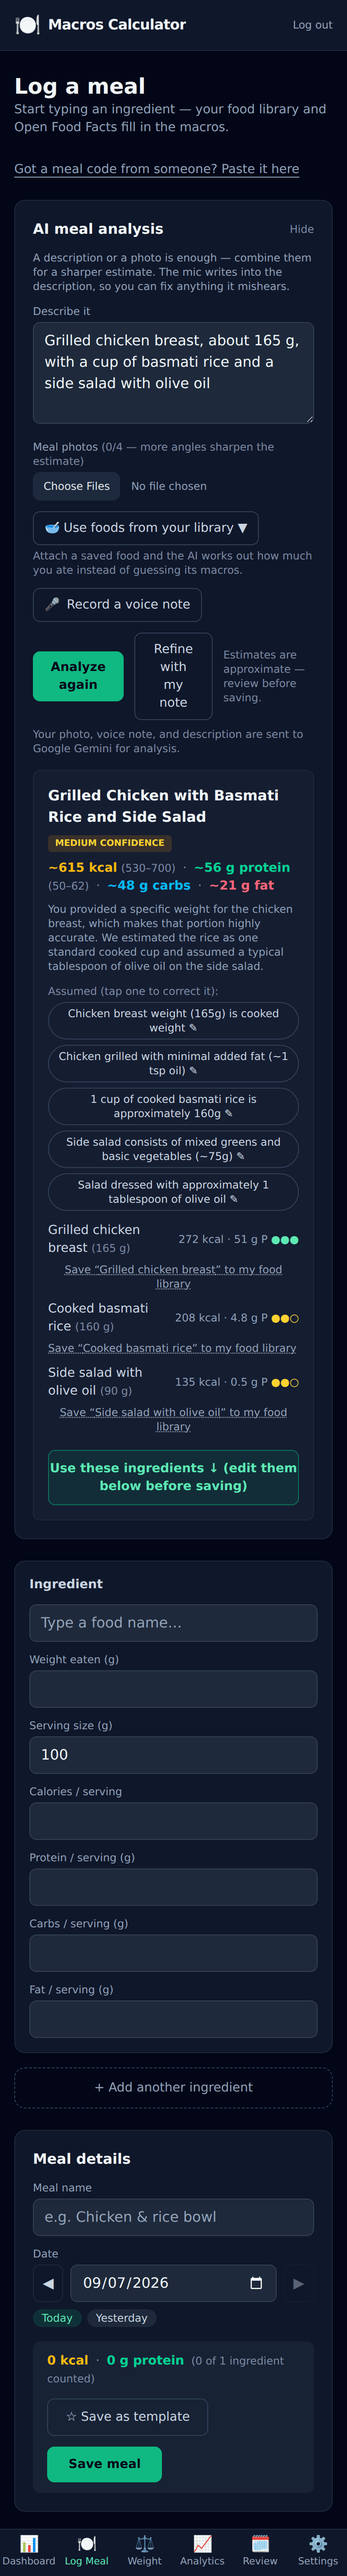
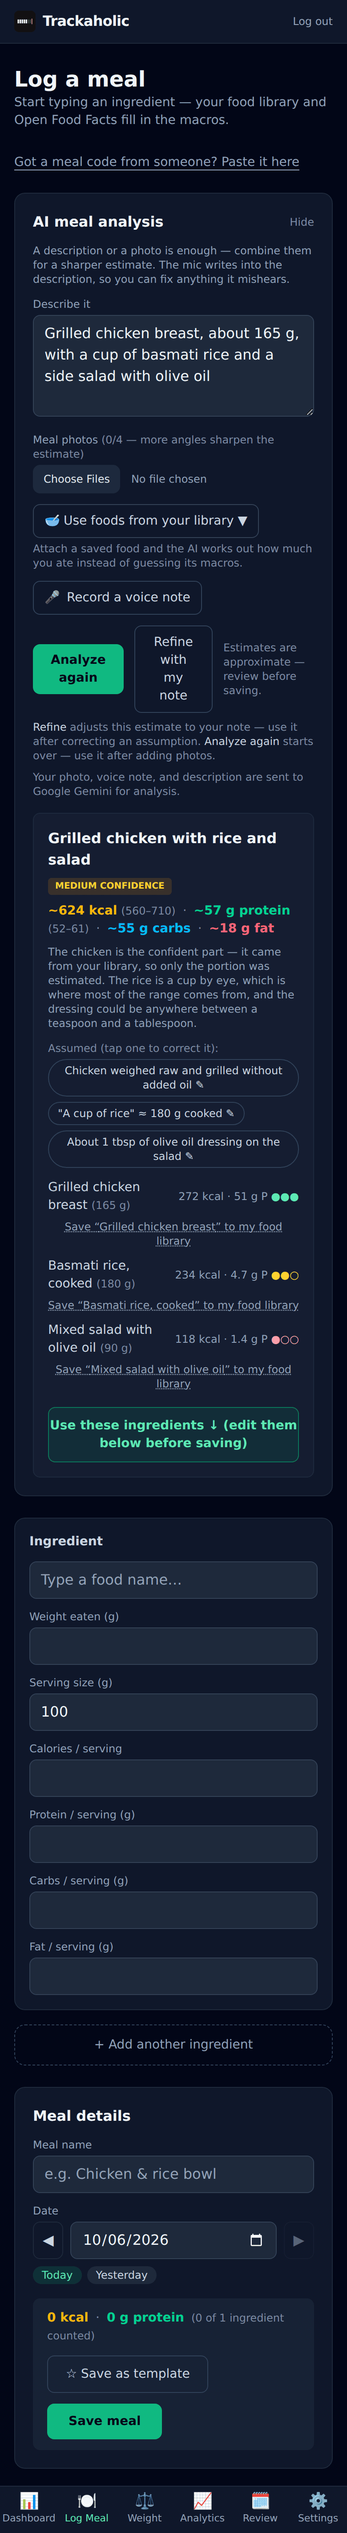
feat: rename the backend and docs to Trackaholic, and announce it
The backend half of the rename. The API's title, the password-reset
email (sender name, subject, both bodies) and the sender name's
documented default in render.yaml and .env.example now say Trackaholic,
matching the frontend's "it arrives from Trackaholic" note. render.yaml
is not applied to the live service, so the dashboard value is changed
by hand where one is set; the in-code default covers the rest.

A new release note tells existing users: same app, same account, same
address, a new name and icon, and what to do if the home-screen icon
does not update by itself. The 2026-07-09 note that says "Macros
Calculator is now multi-user" is left as written: it is history users
have already read.

The README is retitled, with a line saying what it used to be called,
and every screenshot is retaken so the front door shows the new name.
The two AI captures use the script's stand-in analysis rather than a
real model call, to keep the day's provider quota for users.

diff --git a/backend/app/services/email.py b/backend/app/services/email.py
@@ -31,7 +31,7 @@ SENDER_EMAIL_ENV = "EMAIL_SENDER_ADDRESS"
 SENDER_NAME_ENV = "EMAIL_SENDER_NAME"
 # What the recipient sees as the display name. The address beside it is likely
 # to be rewritten (see the module docstring), so this name is doing real work.
-DEFAULT_SENDER_NAME = "Macros Calculator"
+DEFAULT_SENDER_NAME = "Trackaholic"
 
 BREVO_API_URL = "https://api.brevo.com/v3/smtp/email"
 
@@ -163,7 +163,7 @@ def _password_reset_body(reset_url: str, ttl_minutes: int) -> tuple[str, str]:
     caller's value so the copy cannot drift from the token's real expiry.
     """
     text = (
-        f"Macros Calculator — password reset\n\n"
+        f"Trackaholic — password reset\n\n"
         f"Someone asked to reset the password for this email address. Open the "
         f"link below to choose a new one:\n\n"
         f"{reset_url}\n\n"
@@ -174,7 +174,7 @@ def _password_reset_body(reset_url: str, ttl_minutes: int) -> tuple[str, str]:
     safe_url = escape(reset_url, quote=True)
     html = (
         f'<div style="font-family:system-ui,sans-serif;line-height:1.5">'
-        f"<h2>Macros Calculator — password reset</h2>"
+        f"<h2>Trackaholic — password reset</h2>"
         f"<p>Someone asked to reset the password for this email address. "
         f"Choose a new one here:</p>"
         f'<p><a href="{safe_url}">Reset your password</a></p>'
@@ -206,7 +206,7 @@ async def send_password_reset(
             "name": _env(SENDER_NAME_ENV) or DEFAULT_SENDER_NAME,
         },
         "to": [{"email": to_email}],
-        "subject": "Reset your Macros Calculator password",
+        "subject": "Reset your Trackaholic password",
         "textContent": text,
         "htmlContent": html,
     }

diff --git a/backend/app/announcements.py b/backend/app/announcements.py
@@ -29,6 +29,20 @@ STATUS_BANNER_ENV = "STATUS_BANNER"
 # pop-up becoming a dismiss-three-reload-repeat gauntlet.
 ANNOUNCEMENTS: list[Announcement] = [
     Announcement(
+        id="2026-10-06-trackaholic",
+        date="2026-10-06",
+        title="Macros Calculator is now Trackaholic",
+        body=(
+            "**Same app, new name.** Your meals, foods, goals and account are "
+            "exactly where you left them, and the address hasn't changed. The "
+            "new icon is a calories gauge, a first look at the redesign that's "
+            "on its way. If the app is on your home screen, its name and icon "
+            "update on their own within a day or so; if they don't, remove it "
+            "and add it again. And yes, the name is a joke about how much "
+            "tracking is enough: the targets are still a guide, not a rule."
+        ),
+    ),
+    Announcement(
         id="2026-10-04-smaller-photo-uploads",
         date="2026-10-04",
         title="Meal photos upload much faster",

diff --git a/backend/tests/test_password_reset.py b/backend/tests/test_password_reset.py
@@ -459,12 +459,12 @@ def test_a_successful_send_posts_to_brevo(monkeypatch):
     payload = capture["json"]
     assert payload["to"] == [{"email": "someone@example.com"}]
     assert payload["sender"]["email"] == "sender@example.com"
-    assert payload["sender"]["name"] == "Macros Calculator"
+    assert payload["sender"]["name"] == "Trackaholic"
     # Both parts, both carrying the link and the real expiry.
     for part in (payload["textContent"], payload["htmlContent"]):
         assert "https://app.example/reset-password?token=abc" in part
         assert "60 minutes" in part
-        assert "Macros Calculator" in part
+        assert "Trackaholic" in part
 
 
 def test_the_sender_name_is_configurable(monkeypatch):

diff --git a/backend/app/main.py b/backend/app/main.py
@@ -67,7 +67,7 @@ async def lifespan(app: FastAPI):
     yield
 
 
-app = FastAPI(title="Macros Calculator API", version="3.0.0", lifespan=lifespan)
+app = FastAPI(title="Trackaholic API", version="3.0.0", lifespan=lifespan)
 
 app.state.limiter = limiter
 

diff --git a/README.md b/README.md
@@ -1,4 +1,4 @@
-# 🍽 Macros Calculator
+# Trackaholic
 
 [![CI](https://github.com/Abdulla1x/Macros-Calculator/actions/workflows/ci.yml/badge.svg)](https://github.com/Abdulla1x/Macros-Calculator/actions/workflows/ci.yml)
 ![React](https://img.shields.io/badge/React-19-61dafb?logo=react&logoColor=white)
@@ -8,6 +8,8 @@
 ![Postgres](https://img.shields.io/badge/Database-PostgreSQL-4169e1?logo=postgresql&logoColor=white)
 ![Tests](https://img.shields.io/badge/Tests-pytest-brightgreen)
 [![License](https://img.shields.io/badge/License-MIT-lightgrey)](LICENSE)
+
+*Formerly **Macros Calculator**; renamed in October 2026. The live address moves to `trackaholic.app` later.*
 
 **🔗 Live app: [macros-calculator-mu.vercel.app](https://macros-calculator-mu.vercel.app)** — sign up and start logging. (Free-tier hosting: the first request after idle can take ~30–60 s.)
 
